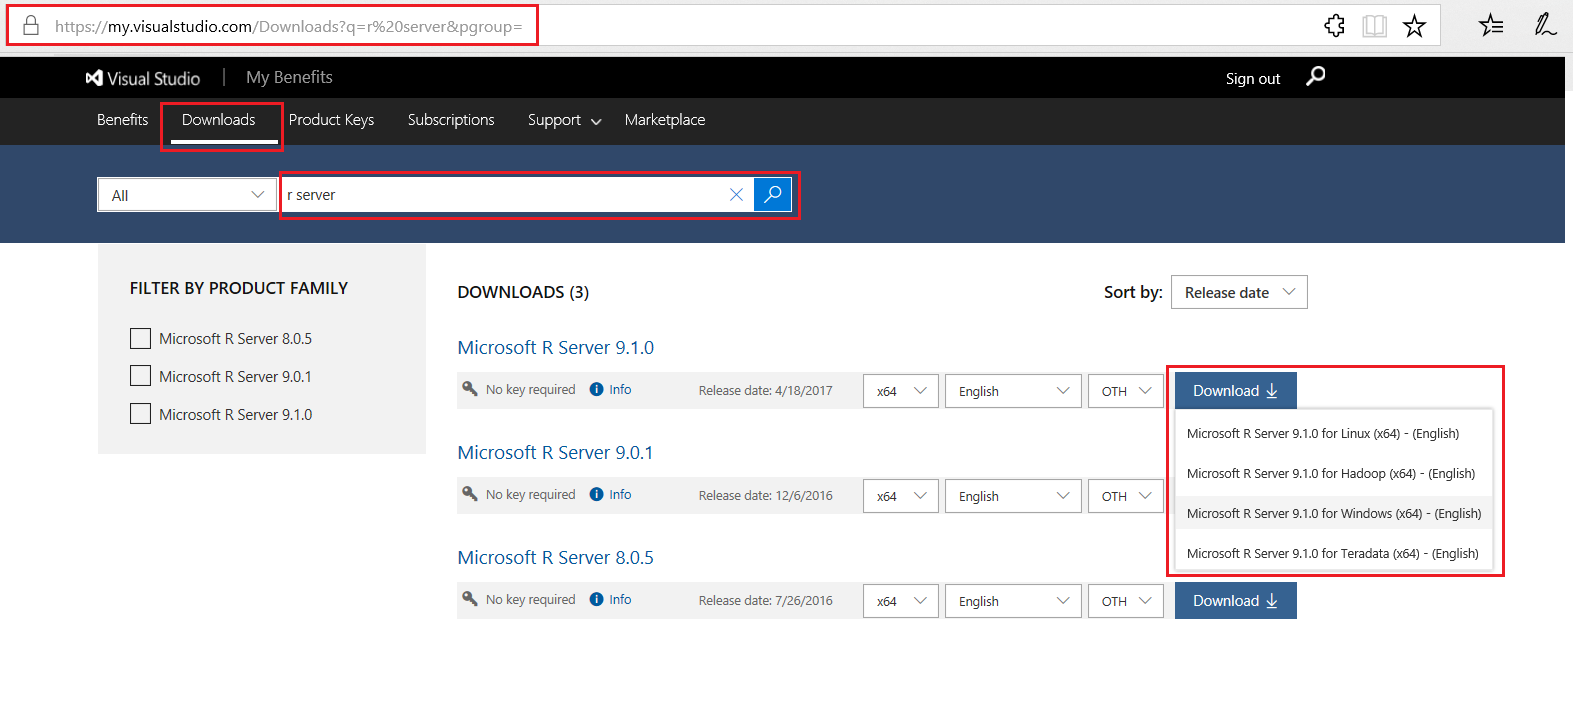
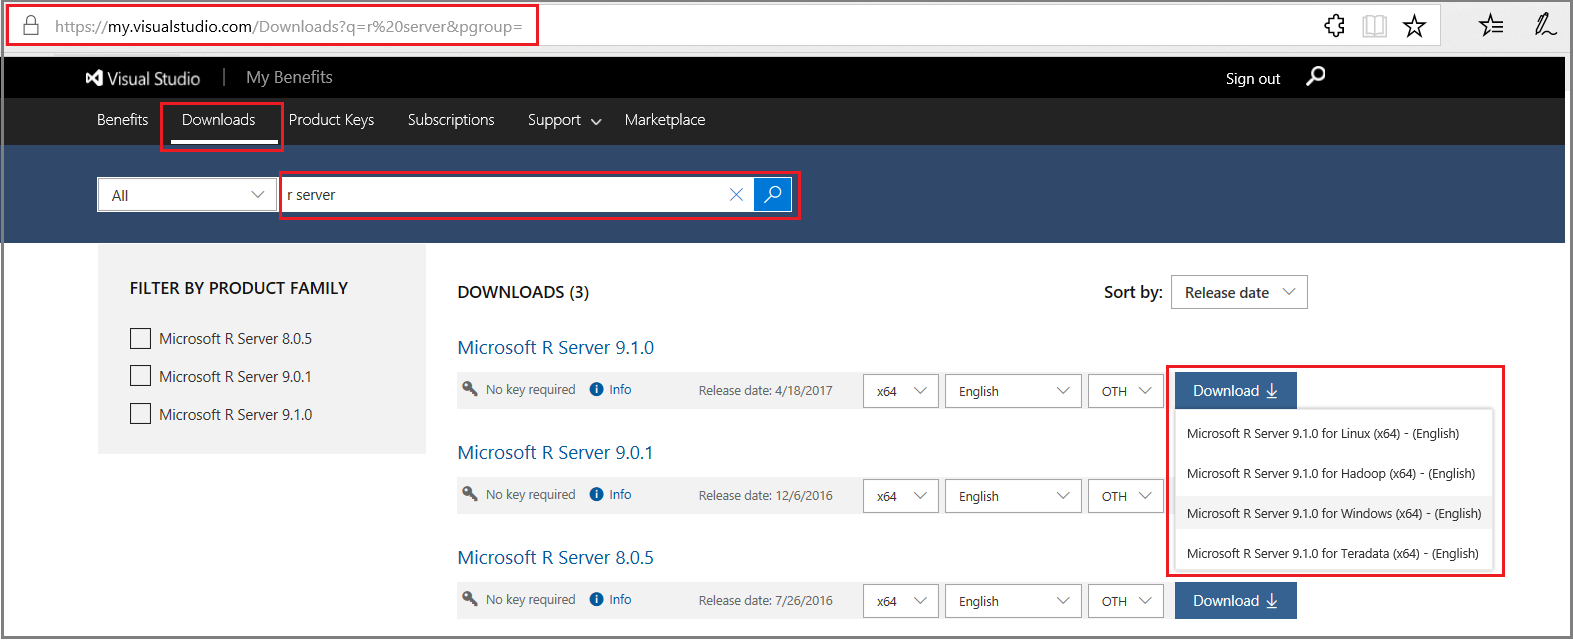
download images, instructions

diff --git a/microsoft-r/install/r-server-install-windows.md b/microsoft-r/install/r-server-install-windows.md
@@ -64,8 +64,15 @@ You can get the zipped installation file from one of the following download site
 
 | Site | Edition | Details |
 |------|---------|---------|
-| [Visual Studio Dev Essentials](https://www.visualstudio.com/dev-essentials/) | Developer (free) | This option provides a zipped file, free when you sign up for Visual Studio Dev Essentials. Developer edition has the same features as Enterprise, except it is licensed for development scenarios. <br/><br/>1. Click **Join or Access Now** and enter your account information.<br/>2. Make sure you're in the right place: *my.visualstudio.com*.<br/>3. Click **Downloads**, and then search for *Microsoft R*. |
+| [Visual Studio Dev Essentials](https://www.visualstudio.com/dev-essentials/) | Developer (free) | This option provides a zipped file, free when you sign up for Visual Studio Dev Essentials. Developer edition has the same features as Enterprise, except it is licensed for development scenarios.  |
 | [Volume Licensing Service Center (VLSC)](http://go.microsoft.com/fwlink/?LinkId=717966&clcid=0x409) | Enterprise | Sign in, search for "SQL Server 2016 Enterprise edition", and then choose a per-core or CAL licensing option. A selection for **R Server for Windows 9.0.1** is provided on this site. |
+
+From [Visual Studio Dev Essentials](https://www.visualstudio.com/dev-essentials/):
+
+1. Click **Join or access now** to sign up for download benefits.
+2. Check the URL to verify it changed to *https://my.visualstudio.com/*.
+3. Click **Downloads** to search for R Server.
+4. Click **Downloads** for a specific version to select the platform.
 
 ![Download page on Visual Studio benefits page](./media/mlserver-install-older-versions.png)
 
@@ -175,7 +182,6 @@ Earlier versions are supported, but with limited availability on Microsoft downl
 | Version | Details|
 |---------|--------|
 | Version 8.0.5  | This version of R Server for Windows, released as Microsoft R Server 2016, is integrated with the enterprise edition of SQL Server 2016. Licensing, installation, and support of this version of R Server for Windows is through SQL Server. Using SQL Server setup, you can install R Server as a standalone server, or as multi-instance service within SQL Server. For more information, see [R Server for Windows](https://msdn.microsoft.com/library/mt671127.aspx) and [SQL Server R Services - R Server install page](https://msdn.microsoft.com/library/mt671127.aspx) in SQL Server 2016 technical documentation.|
-| Version 8.0 | Installation of this version is package by package, in a specific order. For more information and instructions, see [Install Revolution R Enterprise 2016 (version 8.0) for Windows](r-server-install-windows-800.md).|
 
 ## See Also
 

diff --git a/microsoft-r/install/machine-learning-server-windows-install.md b/microsoft-r/install/machine-learning-server-windows-install.md
@@ -28,7 +28,7 @@ ms.prod: "mlserver"
 
 Machine Learning Server for Windows runs machine learning and data mining solutions written in R or Python in standalone and clustered topologies. 
 
-This article explains how to install Machine Learning Server on a standalone Windows server that has an internet connection. If your server has restrictions on internet access, see [offline installation](machine-learning-server-windows-offline.md). 
+This article explains how to install Machine Learning Server on a standalone Windows server with an internet connection. If your server has restrictions on internet access, see [offline installation](machine-learning-server-windows-offline.md). 
 
 ## System requirements
 
@@ -82,7 +82,14 @@ You can get the zipped installation file from one of the following download site
 | Site | Edition | Details |
 |------|---------|---------|
 | [Volume Licensing Service Center (VLSC)](http://go.microsoft.com/fwlink/?LinkId=717966&clcid=0x409) | Enterprise | Sign in, search for "SQL Server 2017", and then choose a per-core licensing option. A selection for **Machine Learning Server 9.3** is provided on this site. |
-| [Visual Studio Dev Essentials](https://www.visualstudio.com/dev-essentials/) | Developer (free) | This option provides a zipped file, free when you sign up for Visual Studio Dev Essentials. Developer edition has the same features as Enterprise, except it is licensed for development scenarios. <br/><br/>1. Click **Join or Access Now** and enter your [Microsoft account](https://account.microsoft.com/account) (such as a Live ID, Hotmail, or outlook account).<br/>2. Make sure you're in the right place: *https://my.visualstudio.com/downloads/features*.<br/>3. Click **Downloads**, and then search for *Machine Learning Server for Windows*. <br/> |
+| [Visual Studio Dev Essentials](https://www.visualstudio.com/dev-essentials/) | Developer (free) | This option provides a zipped file, free when you sign up for Visual Studio Dev Essentials. Developer edition has the same features as Enterprise, except it is licensed for development scenarios. |
+
+For downloads from [Visual Studio Dev Essentials](https://www.visualstudio.com/dev-essentials/):
+
+1. Click **Join or access now** to sign up for download benefits.
+2. Check the URL to verify it changed to *https://my.visualstudio.com/*.
+3. Click **Downloads** to search for R Server.
+4. Click **Downloads** for a specific version to select the platform.
 
 ![Download page on Visual Studio benefits page](./media/machine-learning-server-windows-install/search-downloads.png)
 

diff --git a/microsoft-r/install/r-server-install-hadoop-offline.md b/microsoft-r/install/r-server-install-hadoop-offline.md
@@ -52,9 +52,17 @@ You can get Microsoft R Server (MRS) 9.1.0 for Hadoop from one of the following 
 
 | Site | Edition | Details |
 |------|---------|---------|
-| [Visual Studio Dev Essentials](http://go.microsoft.com/fwlink/?LinkId=717968&clcid=0x409) | Developer (free) | This option provides a zipped file, free when you sign up for Visual Studio Dev Essentials. Developer edition has the same features as Enterprise, except it is licensed for development scenarios. <br/><br/>1. Click **Join or Access Now** and enter your account information.<br/>2. Make sure you're in the right place: *my.visualstudio.com*.<br/>3. Click **Downloads**, and then search for *Microsoft R*. |
+| [Visual Studio Dev Essentials](http://go.microsoft.com/fwlink/?LinkId=717968&clcid=0x409) | Developer (free) | This option provides a zipped file, free when you sign up for Visual Studio Dev Essentials. Developer edition has the same features as Enterprise, except it is licensed for development scenarios.|
 |[Volume Licensing Service Center (VLSC)](http://go.microsoft.com/fwlink/?LinkId=717966&clcid=0x409) | Enterprise | Sign in, search for "SQL Server 2016 Enterprise edition", and then choose a per-core or CAL licensing option. A selection for **R Server for Hadoop 9.1.0** is provided on this site. |
-| [MSDN subscription downloads](https://msdn.microsoft.com/subscriptions/downloads/hh442898.aspx) | Developer or Enterprise | Subscribers can download software at given subscription levels. Depending on your subscription, you can get either edition. |
+
+For downloads from [Visual Studio Dev Essentials](https://www.visualstudio.com/dev-essentials/):
+
+1. Click **Join or access now** to sign up for download benefits.
+2. Check the URL to verify it changed to *https://my.visualstudio.com/*.
+3. Click **Downloads** to search for R Server.
+4. Click **Downloads** for a specific version to select the platform.
+
+![Download page on Visual Studio benefits page](./media/mlserver-install-older-versions.png)
 
 ## Download package dependencies
 

diff --git a/microsoft-r/install/r-server-install-linux-offline.md b/microsoft-r/install/r-server-install-linux-offline.md
@@ -69,9 +69,17 @@ You can get the gzipped installation file from one of the following download sit
 
 | Site | Edition | Details |
 |------|---------|---------|
-| [Visual Studio Dev Essentials](http://go.microsoft.com/fwlink/?LinkId=717968&clcid=0x409) | Developer (free) | This option provides a zipped file, free when you sign up for Visual Studio Dev Essentials. Developer edition has the same features as Enterprise, except it is licensed for development scenarios. <br/><br/>1. Click **Join or Access Now** and enter your account information.<br/>2. Make sure you're in the right place: *my.visualstudio.com*.<br/>3. Click **Downloads**, and then search for *Microsoft R*. |
+| [Visual Studio Dev Essentials](http://go.microsoft.com/fwlink/?LinkId=717968&clcid=0x409) | Developer (free) | This option provides a zipped file, free when you sign up for Visual Studio Dev Essentials. Developer edition has the same features as Enterprise, except it is licensed for development scenarios.|
 |[Volume Licensing Service Center (VLSC)](http://go.microsoft.com/fwlink/?LinkId=717966&clcid=0x409) | Enterprise | Sign in, search for "SQL Server 2016 Enterprise edition", and then choose a per-core or CAL licensing option. A selection for **R Server for Linux 9.1** is provided on this site. |
-| [MSDN subscription downloads](https://msdn.microsoft.com/subscriptions/downloads/hh442898.aspx) | Developer or Enterprise | Subscribers can download software at given subscription levels. Depending on your subscription, you can get either edition. |
+
+For downloads from [Visual Studio Dev Essentials](https://www.visualstudio.com/dev-essentials/):
+
+1. Click **Join or access now** to sign up for download benefits.
+2. Check the URL to verify it changed to *https://my.visualstudio.com/*.
+3. Click **Downloads** to search for R Server.
+4. Click **Downloads** for a specific version to select the platform.
+
+![Download page on Visual Studio benefits page](./media/mlserver-install-older-versions.png)
 
 ## Download package dependencies
 

diff --git a/microsoft-r/install/r-server-install-hadoop-command-line.md b/microsoft-r/install/r-server-install-hadoop-command-line.md
@@ -74,9 +74,17 @@ Get the zipped RServerSetup installer file from one of the following download si
 
 | Site | Edition | Details |
 |------|---------|---------|
-| [Visual Studio Dev Essentials](http://go.microsoft.com/fwlink/?LinkId=717968&clcid=0x409) | Developer (free) | This option provides a zipped file, free when you sign up for Visual Studio Dev Essentials. Developer edition has the same features as Enterprise, except it is licensed for development scenarios. <br/><br/>1. Click **Join or Access Now** and enter your account information.<br/>2. Make sure you're in the right place: *my.visualstudio.com*.<br/>3. Click **Downloads**, and then search for *Microsoft R*. |
+| [Visual Studio Dev Essentials](http://go.microsoft.com/fwlink/?LinkId=717968&clcid=0x409) | Developer (free) | This option provides a zipped file, free when you sign up for Visual Studio Dev Essentials. Developer edition has the same features as Enterprise, except it is licensed for development scenarios.|
 |[Volume Licensing Service Center (VLSC)](http://go.microsoft.com/fwlink/?LinkId=717966&clcid=0x409) | Enterprise | Sign in, search for R Server for Hadoop. A selection for **R Server 9.1.0 for Hadoop** is provided on this site. |
-| [MSDN subscription downloads](https://msdn.microsoft.com/subscriptions/downloads/hh442898.aspx) | Developer or Enterprise | Subscribers can download software at given subscription levels. Depending on your subscription, you can get either edition. |
+
+For downloads from [Visual Studio Dev Essentials](https://www.visualstudio.com/dev-essentials/):
+
+1. Click **Join or access now** to sign up for download benefits.
+2. Check the URL to verify it changed to *https://my.visualstudio.com/*.
+3. Click **Downloads** to search for R Server.
+4. Click **Downloads** for a specific version to select the platform.
+
+![Download page on Visual Studio benefits page](./media/mlserver-install-older-versions.png)
 
 ## Unpack the distribution
 

diff --git a/microsoft-r/install/r-server-install-linux-server.md b/microsoft-r/install/r-server-install-linux-server.md
@@ -67,9 +67,17 @@ You can get the gzipped installation file from one of the following download sit
 
 | Site | Edition | Details |
 |------|---------|---------|
-| [Visual Studio Dev Essentials](http://go.microsoft.com/fwlink/?LinkId=717968&clcid=0x409) | Developer (free) | This option provides a zipped file, free when you sign up for Visual Studio Dev Essentials. Developer edition has the same features as Enterprise, except it is licensed for development scenarios. <br/><br/>1. Click **Join or Access Now** and enter your account information.<br/>2. Make sure you're in the right place: *my.visualstudio.com*.<br/>3. Click **Downloads**, and then search for *Microsoft R*. |
+| [Visual Studio Dev Essentials](http://go.microsoft.com/fwlink/?LinkId=717968&clcid=0x409) | Developer (free) | This option provides a zipped file, free when you sign up for Visual Studio Dev Essentials. Developer edition has the same features as Enterprise, except it is licensed for development scenarios.|
 |[Volume Licensing Service Center (VLSC)](http://go.microsoft.com/fwlink/?LinkId=717966&clcid=0x409) | Enterprise | Sign in, search for R Server for Linux. A selection for **R Server 9.1.0 for Linux** is provided on this site. |
-| [MSDN subscription downloads](https://msdn.microsoft.com/subscriptions/downloads/hh442898.aspx) | Developer or Enterprise | Subscribers can download software at given subscription levels. Depending on your subscription, you can get either edition. |
+
+For downloads from [Visual Studio Dev Essentials](https://www.visualstudio.com/dev-essentials/):
+
+1. Click **Join or access now** to sign up for download benefits.
+2. Check the URL to verify it changed to *https://my.visualstudio.com/*.
+3. Click **Downloads** to search for R Server.
+4. Click **Downloads** for a specific version to select the platform.
+
+![Download page on Visual Studio benefits page](./media/mlserver-install-older-versions.png)
 
 ### Unpack the distribution
 

diff --git a/microsoft-r/install/r-server-install-cloudera-generate-parcel.md b/microsoft-r/install/r-server-install-cloudera-generate-parcel.md
@@ -47,9 +47,17 @@ The first step is to download a gzipped tar file of the R Server 9.1 distributio
 
 | Site | Edition | Details |
 |------|---------|---------|
-| [Visual Studio Dev Essentials](http://go.microsoft.com/fwlink/?LinkId=717968&clcid=0x409) | Developer (free) | This option provides a zipped file, free when you sign up for Visual Studio Dev Essentials. Developer edition has the same features as Enterprise, except it is licensed for development scenarios. <br/><br/>1. Click **Join or Access Now** and enter your account information.<br/>2. Make sure you're in the right place: *my.visualstudio.com*.<br/>3. Click **Downloads**, and then search for *Microsoft R*. |
+| [Visual Studio Dev Essentials](http://go.microsoft.com/fwlink/?LinkId=717968&clcid=0x409) | Developer (free) | This option provides a zipped file, free when you sign up for Visual Studio Dev Essentials. Developer edition has the same features as Enterprise, except it is licensed for development scenarios.|
 |[Volume Licensing Service Center (VLSC)](http://go.microsoft.com/fwlink/?LinkId=717966&clcid=0x409) | Enterprise | Sign in, search for R Server for Hadoop. A selection for **R Server 9.1.0 for Hadoop** is provided on this site. |
-| [MSDN subscription downloads](https://msdn.microsoft.com/subscriptions/downloads/hh442898.aspx) | Developer or Enterprise | Subscribers can download software at given subscription levels. Depending on your subscription, you can get either edition. |
+
+For downloads from [Visual Studio Dev Essentials](https://www.visualstudio.com/dev-essentials/):
+
+1. Click **Join or access now** to sign up for download benefits.
+2. Check the URL to verify it changed to *https://my.visualstudio.com/*.
+3. Click **Downloads** to search for R Server.
+4. Click **Downloads** for a specific version to select the platform.
+
+![Download page on Visual Studio benefits page](./media/mlserver-install-older-versions.png)
 
 ## Step 2: Unpack 
 

diff --git a/microsoft-r/rebranding-microsoft-r-server.md b/microsoft-r/rebranding-microsoft-r-server.md
@@ -52,10 +52,17 @@ Want the new Machine Learning Server? [Learn how to install Machine Learning Ser
 
 | Site for R Server | Edition | Details |
 |------|---------|---------|
-| [Visual Studio Dev Essentials](http://go.microsoft.com/fwlink/?LinkId=717968&clcid=0x409) | Developer (free) | This option provides a zipped file, free when you sign up for Visual Studio Dev Essentials. Developer edition has the same features as Enterprise, except it is licensed for development scenarios. <br/><br/>1. Click **Join or Access Now** and enter your account information.<br/>2. Make sure you're in the right place: *my.visualstudio.com*.<br/>3. Click **Downloads**, and then search for *Microsoft R*. |
+| [Visual Studio Dev Essentials](http://go.microsoft.com/fwlink/?LinkId=717968&clcid=0x409) | Developer (free) | This option provides a zipped file, free when you sign up for Visual Studio Dev Essentials. Developer edition has the same features as Enterprise, except it is licensed for development scenarios. |
 |[Volume Licensing Service Center (VLSC)](http://go.microsoft.com/fwlink/?LinkId=717966&clcid=0x409) | Enterprise | Sign in, search for R Server. Choose the right version for your OS. |
-| [MSDN subscription downloads](https://msdn.microsoft.com/subscriptions/downloads/hh442898.aspx) | Developer or Enterprise | Subscribers can download software at given subscription levels. Depending on your subscription, you can get either edition. |
 
+From [Visual Studio Dev Essentials](https://www.visualstudio.com/dev-essentials/):
+
+1. Click **Join or access now** to sign up for download benefits.
+2. Check the URL to verify it changed to *https://my.visualstudio.com/*.
+3. Click **Downloads** to search for R Server.
+4. Click **Downloads** for a specific version to select the platform.
+
+![Download page on Visual Studio benefits page](./media/mlserver-install-older-versions.png)
 
 ## Get support for R Server
 

diff --git a/microsoft-r/install/r-server-install-windows-offline.md b/microsoft-r/install/r-server-install-windows-offline.md
@@ -67,8 +67,15 @@ You can get the zipped installation file from one of the following download site
 
 | Site | Edition | Details |
 |------|---------|---------|
-| [Visual Studio Dev Essentials](http://go.microsoft.com/fwlink/?LinkId=717968&clcid=0x409) | Developer (free) | This option provides a zipped file, free when you sign up for Visual Studio Dev Essentials. Developer edition has the same features as Enterprise, except it is licensed for development scenarios. <br/><br/>1. Click **Join or Access Now** and enter your account information.<br/>2. Make sure you're in the right place: *my.visualstudio.com*.<br/>3. Click **Downloads**, and then search for *Microsoft R*. |
+| [Visual Studio Dev Essentials](http://go.microsoft.com/fwlink/?LinkId=717968&clcid=0x409) | Developer (free) | This option provides a zipped file, free when you sign up for Visual Studio Dev Essentials. Developer edition has the same features as Enterprise, except it is licensed for development scenarios.|
 |[Volume Licensing Service Center (VLSC)](http://go.microsoft.com/fwlink/?LinkId=717966&clcid=0x409) | Enterprise | Sign in, search for "SQL Server 2016 Enterprise edition", and then choose a per-core or CAL licensing option. A selection for **R Server for Windows 9.0.1** is provided on this site. |
+
+From [Visual Studio Dev Essentials](https://www.visualstudio.com/dev-essentials/):
+
+1. Click **Join or access now** to sign up for download benefits.
+2. Check the URL to verify it changed to *https://my.visualstudio.com/*.
+3. Click **Downloads** to search for R Server.
+4. Click **Downloads** for a specific version to select the platform.
 
 ![Download page on Visual Studio benefits page](./media/mlserver-install-older-versions.png)
 

diff --git a/microsoft-r/install/r-server-install-hadoop-901.md b/microsoft-r/install/r-server-install-hadoop-901.md
@@ -23,7 +23,7 @@ ms.prod: "mlserver"
 ---
 # Install Microsoft R Server 9.0.1 on Hadoop
 
-Older versions of R Server for Hadoop are no longer available on the Microsoft download sites, but if you already have an older distribution, you can follow these instructions to deploy version 9.0.1. For the current release, see [Install R Server for Hadoop](r-server-install-hadoop.md).
+The following instructions are for installation of R Server 9.0.1 for Hadoop.
 
 **Side-by-side Installation**
 
@@ -37,6 +37,7 @@ If you want to replace an older version rather than run side-by-side, you can un
 
 A summary of setup tasks is as follows:
 
+- Download software.
 - Unzip to extract packages and an install script (install.sh)
 - Run the install script with a -p parameter (for Hadoop)
 - Verify the installation

diff --git a/microsoft-r/install/r-server-install.md b/microsoft-r/install/r-server-install.md
@@ -44,6 +44,5 @@ This section provides links to installation documentation for R Server 9.1 and e
 
 ## 8.0.5
 
-+ [8.0.5 - Windows](r-server-install-windows-800.md)
 + [8.0.5 - Install Linux](r-server-install-linux-server-805.md)
 + [8.0.5 - Install Hadoop](r-server-install-hadoop-805.md)
